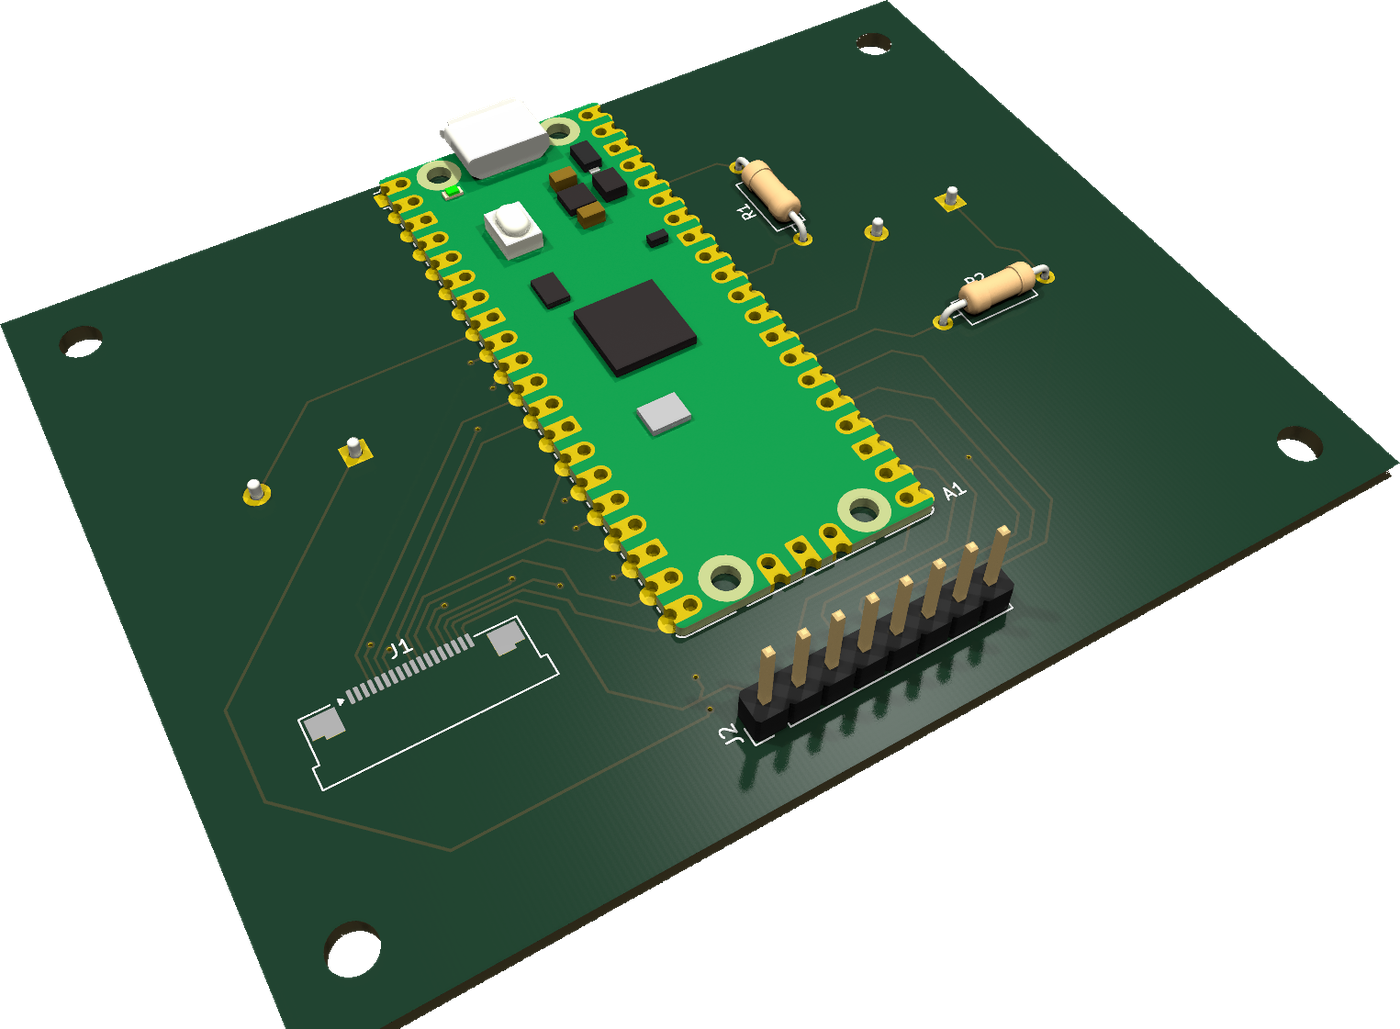
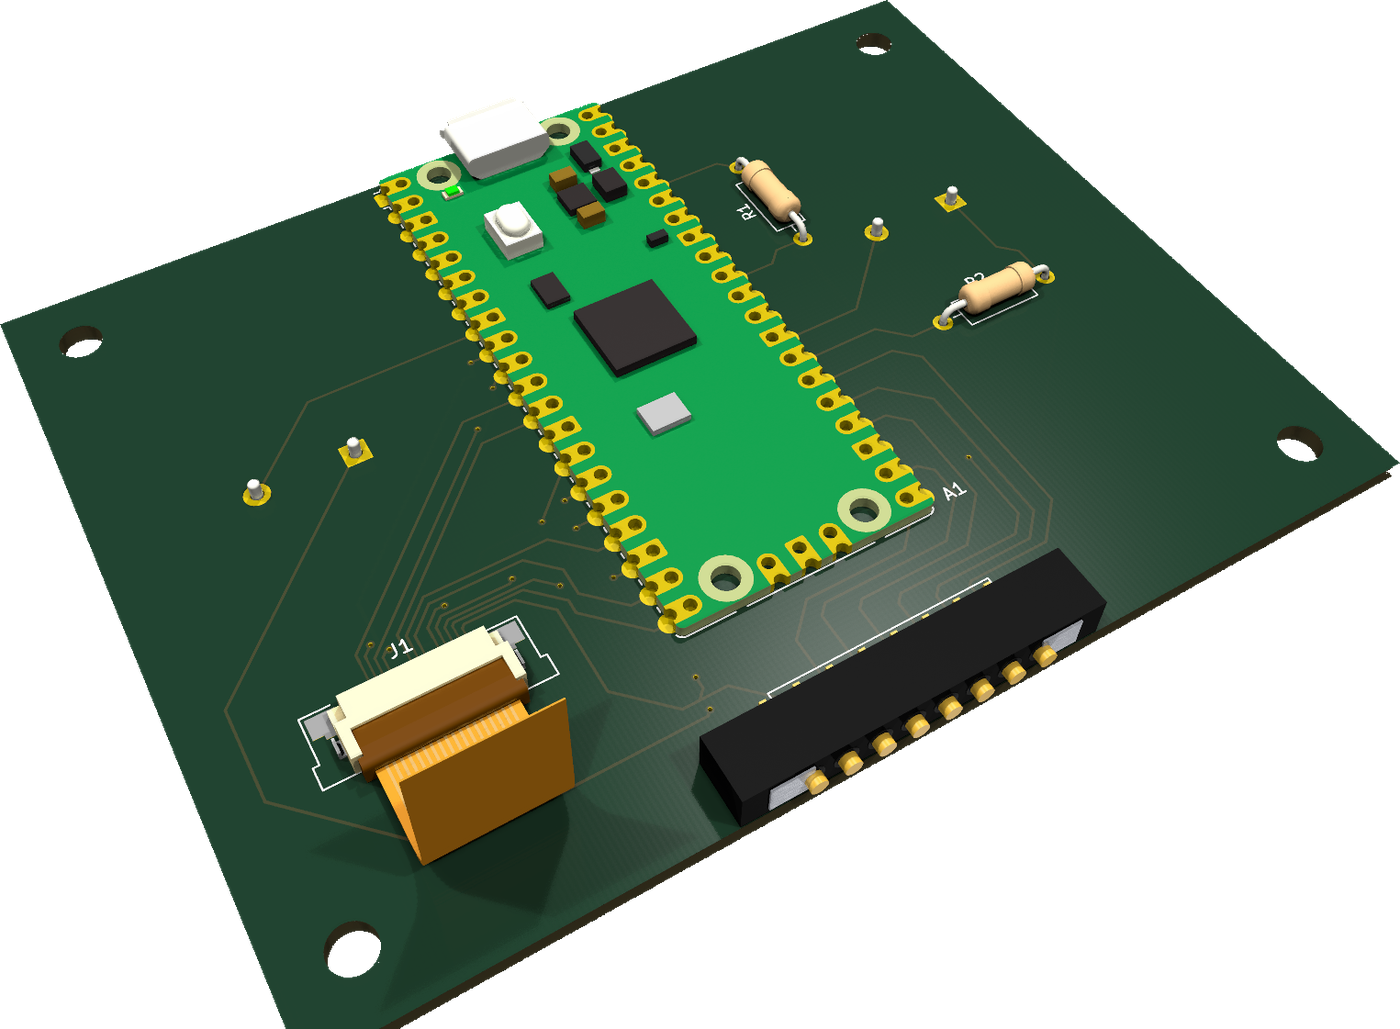
Show magnetic pogo connector and FPC ribbon in handheld renders

Changed region(s): [[0.4914, 0.4976, 0.7986, 0.8086], [0.215, 0.5909, 0.43, 0.9018]]

diff --git a/content/projects/modular-handheld.md b/content/projects/modular-handheld.md
@@ -1,7 +1,7 @@
 ---
 title: "Modular Handheld Device"
 date: 2026-06-01
-summary: "A handheld built around hot-swappable control modules that snap on through a pogo-pin connector and are detected automatically over I2C."
+summary: "A handheld built around hot-swappable control modules that snap on through a magnetic pogo-pin connector and are detected automatically over I2C."
 tech: ["MicroPython", "Raspberry Pi Pico", "KiCad", "Onshape", "I2C"]
 image: "images/projects/handheld/assembled.jpg"
 thumbnail: "images/projects/handheld/modules.jpg"
@@ -21,7 +21,8 @@ Next I plan to build a music-creation module and a keyboard module.
 ## How it works
 
 **Base unit:** a Raspberry Pi Pico running MicroPython drives an ST7789 touchscreen
-over SPI and two buzzers for sound. An 8-pin pogo connector on the edge carries
+over SPI through an 18-pin FPC ribbon cable, plus two buzzers for sound. An 8-pin
+right-angle magnetic pogo connector on the board edge carries
 power, I2C, an interrupt line, a module-ID line and two expansion pins to whichever
 module is attached.
 
@@ -36,6 +37,8 @@ click. An ADS1115 ADC reads the analog joystick, and a DRV2605 driver adds hapti
 feedback. All three share one I2C bus through the pogo connector.
 
 ![3D render of the base unit PCB](/images/projects/handheld/render-3d.png)
+
+![The magnetic pogo connector on the board edge and the display ribbon cable](/images/projects/handheld/render-connectors.png)
 
 ## Software
 
